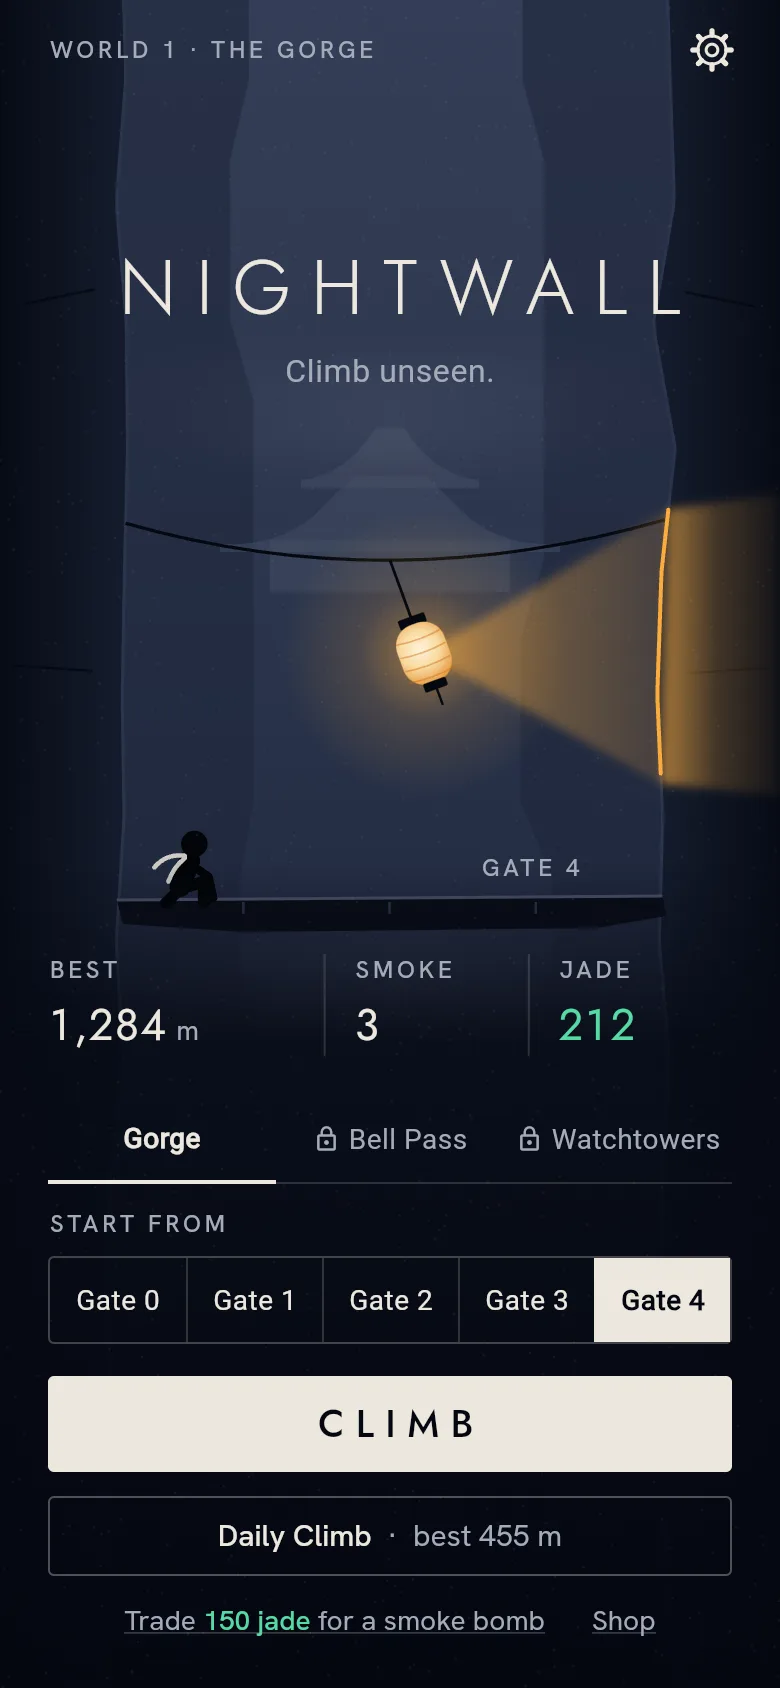
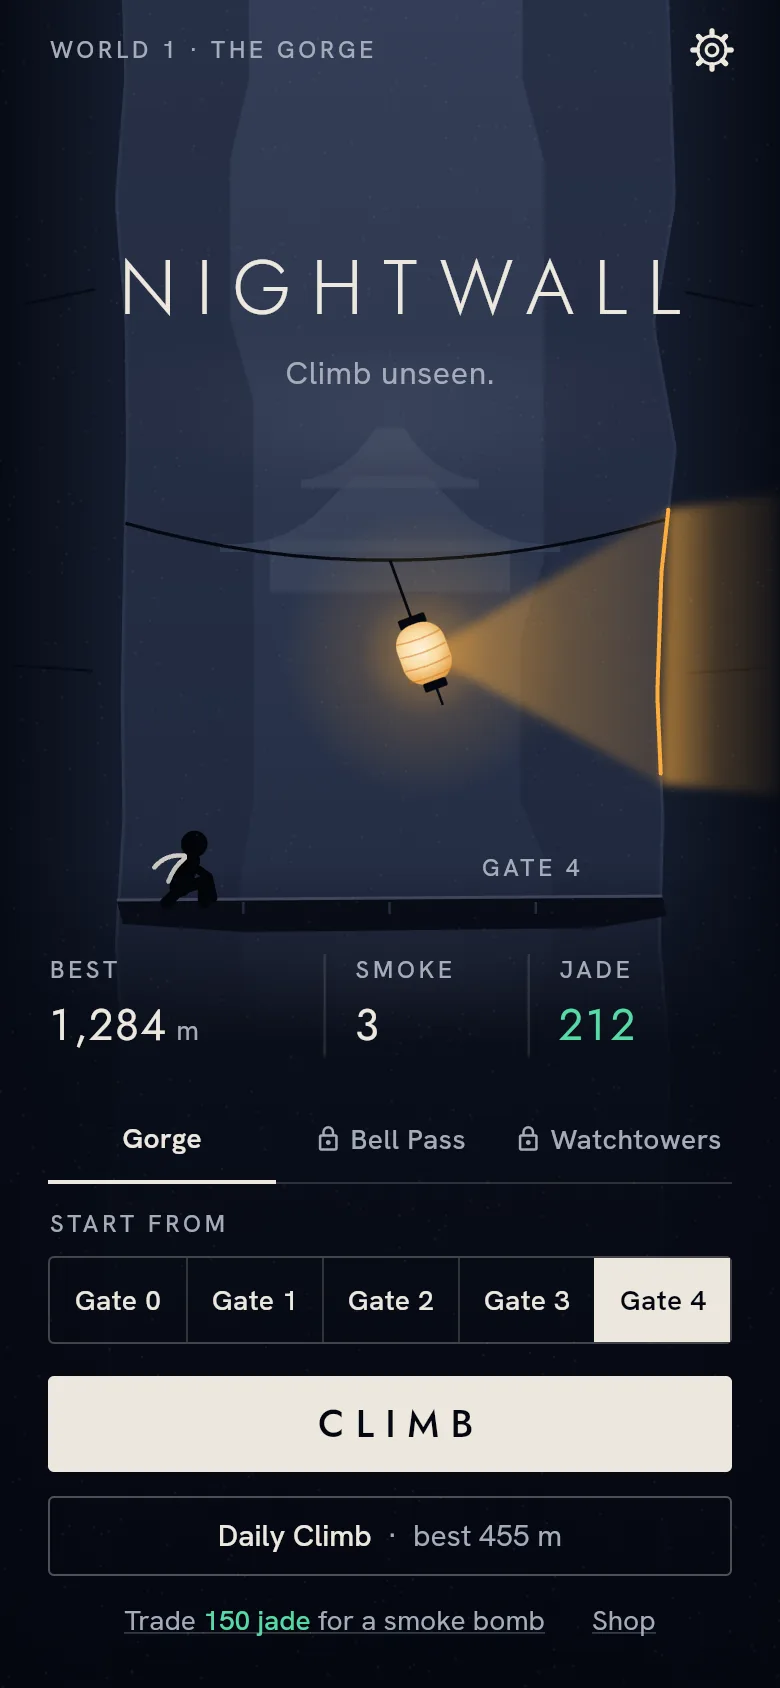
fix: refresh screenshots with the shipped font and correct two claims
- recapture home, game and spotted from the current build, where every
  text style uses Hanken Grotesk
- a stretch between gates takes under a minute (speed rises with each gate)
- new gates earn a smoke bomb only up to a stock of 9

diff --git a/index.html b/index.html
@@ -65,11 +65,11 @@
         </div>
         <div class="feature">
           <h3>Gates you keep</h3>
-          <p>Every 300 m a stone ledge marks a gate. Fall at 1,140 m and you start again from gate 3, not from the ground. A stretch between gates takes about 40 seconds.</p>
+          <p>Every 300 m a stone ledge marks a gate. Fall at 1,140 m and you start again from gate 3, not from the ground. A stretch between gates takes under a minute.</p>
         </div>
         <div class="feature jade">
           <h3>One smoke bomb can save a climb</h3>
-          <p>A smoke bomb hides you for 2.5 seconds. Caught anyway? Spend one to vanish on the spot, once per climb. You earn them by reaching new gates.</p>
+          <p>A smoke bomb hides you for 2.5 seconds. Caught anyway? Spend one to vanish on the spot, once per climb. Each new gate earns one, up to 9.</p>
         </div>
       </div>
     </div>
